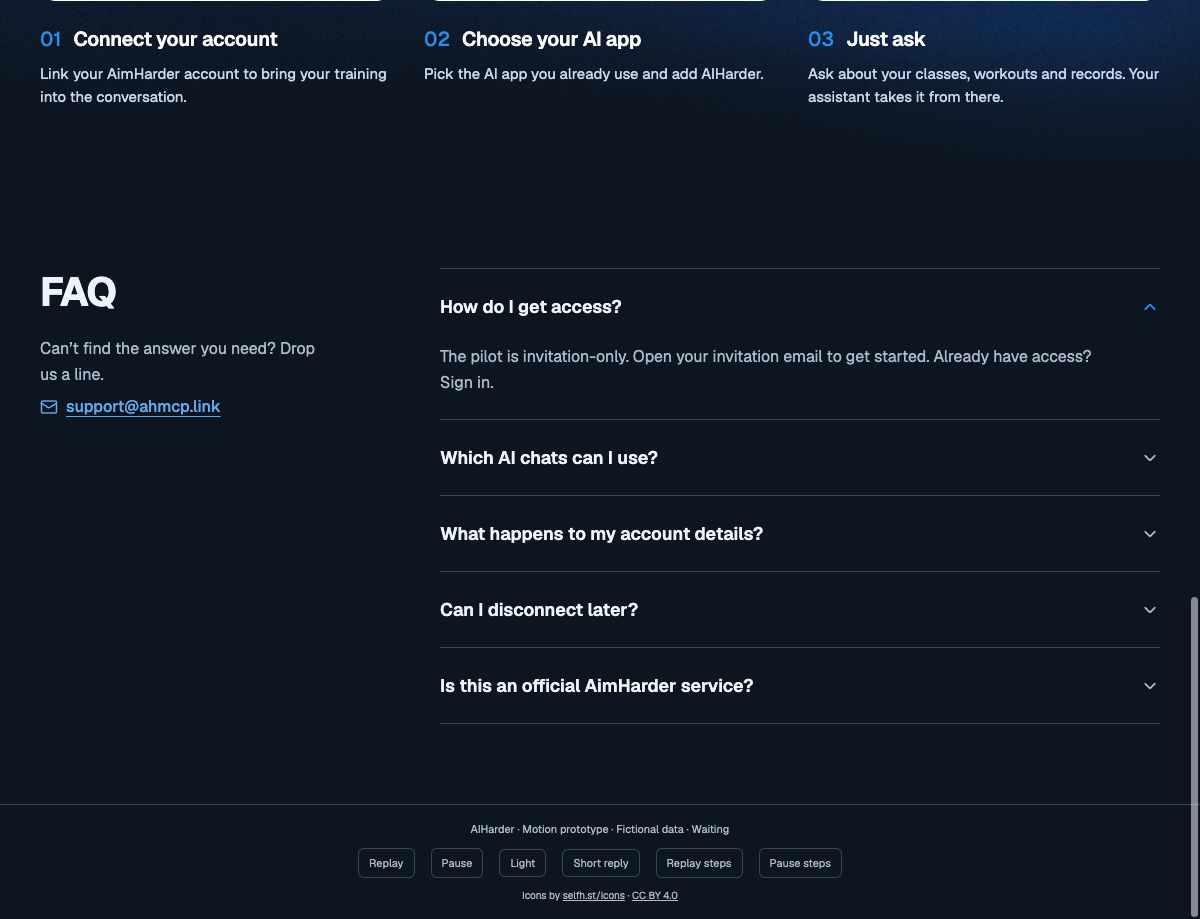
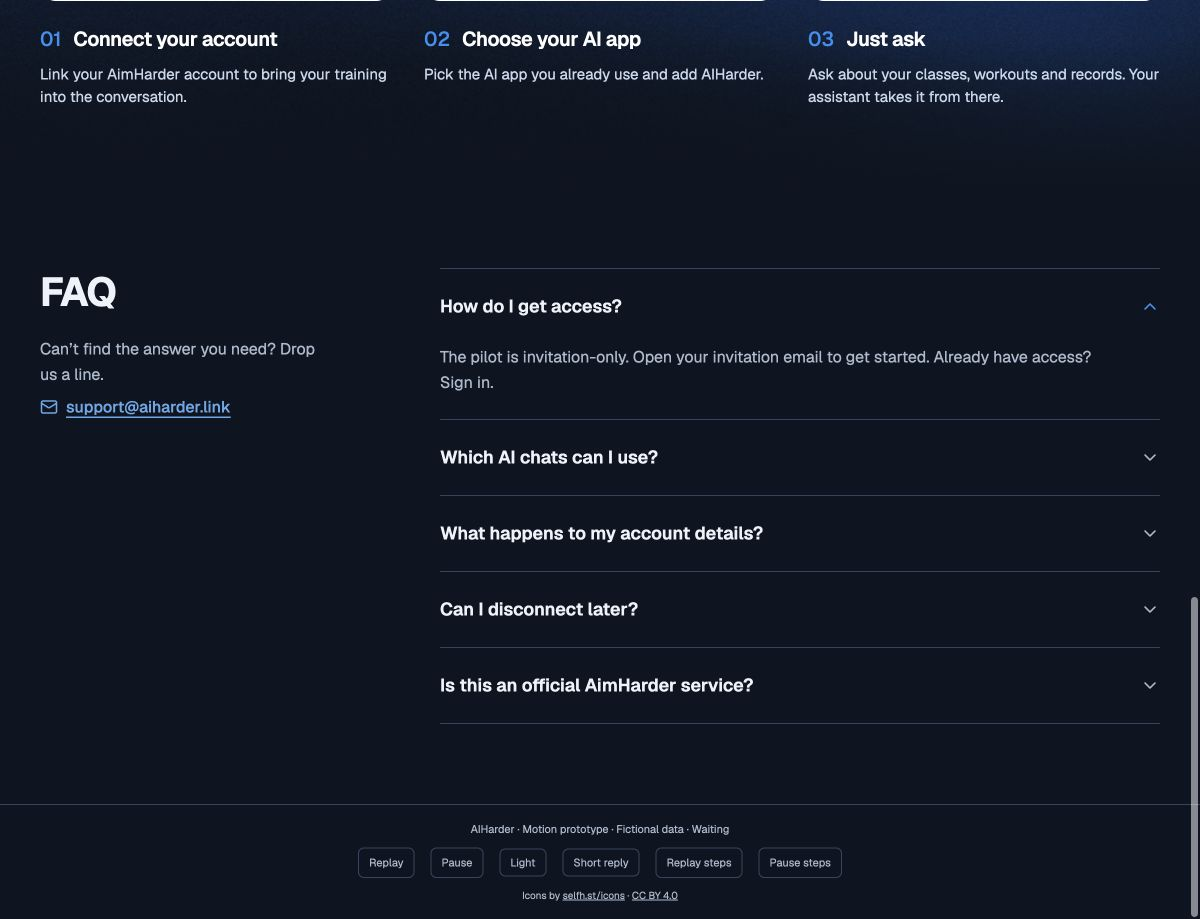
design: adopt aiharder.link domain and support address #95

diff --git a/design/home-study/hero-motion-prototype.html b/design/home-study/hero-motion-prototype.html
@@ -6,4 +6,4 @@
 @media(max-width:1320px){.kettle{left:-60px;top:116px;width:300px;height:344px}.kettle img{width:435.13px;height:435.13px;left:-68px;top:-57.79px}.answer{width:300px}.ground{left:-36px;top:450px;width:266px}.ground::after{left:34px;width:198px}}
 @media(max-width:1150px){.hero{grid-template-columns:46% 1fr;gap:40px}h1{font-size:50px}.brand{font-size:20px}.utilities{gap:16px}.nav{gap:24px}.question{width:270px}.answer{width:300px}.kettle{left:-70px}.apps{gap:12px}.app{font-size:12px;gap:5px}}
 @media(max-width:850px){.container{width:calc(100% - 40px)}.header-inner{grid-template-columns:1fr auto;min-height:80px}.nav{display:none}.utilities{gap:16px}.language{display:none}.hero{display:block;padding-top:28px}.pitch{max-width:532px}.scene{height:520px;margin:32px auto 0;max-width:596px}.kettle{left:0;top:126px}.ground{top:460px}.question{right:0}.answer{right:0}.apps{flex-wrap:wrap}h1{font-size:44px}.header-signin{min-width:100px;padding:12px 18px}.brand{font-size:17px}.brand img{width:35px;height:40px}}
[2 lines of base64/hex data omitted]

diff --git a/design/home-study/faq-prototype.js b/design/home-study/faq-prototype.js
@@ -1,6 +1,6 @@
 // Isolated home-study FAQ. Mailto opens a draft; this page sends no email.
 const section = document.querySelector('#faq');
-const copy = await fetch('./faq-study-copy.json').then(response => response.json());
+const copy = await fetch('./faq-study-copy.json?v=aiharder-domain').then(response => response.json());
 section.innerHTML = `
   <div class="container faq-layout">
     <div class="faq-introduction">

diff --git a/docs/product-experience.md b/docs/product-experience.md
@@ -1,6 +1,8 @@
 # Product experience design
 
-FAQ checkpoint, 2026-11-02: the English desktop home now includes **FAQ**, with a support-email invitation beside the heading and five expandable answers. This owner placement supersedes the earlier support-at-end proposal. The [FAQ study](../design/home-study/faq-study.md) records current copy, interaction, references, native states and acceptance limits. `support@ahmcp.link` remains the accepted design target; this work does not activate or validate the inbox. Closing/footer drafts and other device/locale variants remain unchanged.
+Design-domain update, 2026-11-02: the owner selected **aiharder.link** for the design and **support@aiharder.link** for its support contact. This supersedes the earlier public-domain/address presentation below. English desktop Light/Dark copy and Pen use the new address. Technical origins, OAuth callbacks, DNS, mail-provider configuration and historical activation evidence are unchanged; this is not an operational migration or availability claim.
+
+FAQ checkpoint, 2026-11-02: the English desktop home now includes **FAQ**, with a support-email invitation beside the heading and five expandable answers. This owner placement supersedes the earlier support-at-end proposal. The [FAQ study](../design/home-study/faq-study.md) records current copy, interaction, references, native states and acceptance limits. `support@aiharder.link` is the current design target; this work does not activate or validate the inbox. Closing/footer drafts and other device/locale variants remain unchanged.
 
 Home study checkpoint, 2026-11-02: English desktop Light/Dark now include the animated **How you get started** section after the question wall. The latest refinement reuses the vertically inverted hero background, a navy title in Light, a macOS-style demo cursor and an “Other clients” row after ChatGPT. The [directed study](../design/home-study/how-to-study.md) records the three fictional UI demos, source references, timings, editable Pen success stills and browser checks. Closing/footer drafts and the other six variants remain frozen. Captions and owner motion/visual acceptance remain pending; this does not implement live authentication, app installation or production frontend behavior. Existing architecture/security/scope ADRs are unaffected.
 
@@ -20,7 +22,7 @@ The owner accepted the following recommendations on 2026-10-28:
 
 - Design primarily for a member of the owner's gym who wants to use AimHarder through an AI chat. Keep invitation-only admission for the initial pilot. Explain capabilities, setup and recovery without requiring knowledge of MCP.
 - Cover the whole remote-service experience: the public website, invitations and sign-in, AimHarder connection, AI-client authorization, settings, administration, errors and transactional email. Review instructions visible in the AI chat as well. Changes to tool behavior require a specific decision.
-- Keep `ahmcp.link` as the intended public domain. The owner's earlier mention of `ahmcp.com` was a mistake, not a migration request.
+- Use `aiharder.link` as the current design domain (owner revision, 2026-11-02). This supersedes the earlier `ahmcp.link` design choice; it does not migrate the existing runtime.
 - Make the GitHub README a product entry point with immediately discoverable hosted remote and local npm usage paths, shared capabilities, and separate setup guides. Link technical details and validation evidence from the relevant sections.
 - Keep the website design in a pen.dev `.pen` file. The later design handoff fixes the path as `design/ahmcp.pen`; #95 resolves the concrete screen/state inventory within its required coverage.
 
@@ -74,7 +76,7 @@ These are source and tracker observations, not UX decisions:
 - The portal can list currently authorized MCP clients. It has no implemented first-successful-query indicator; an OAuth grant alone is not evidence that a sporting query succeeded.
 - The Mamitsu reference was inspected on 2026-10-28, including its **Other agents** state. It switches the instructions with the client selection; the generic state supplies a copyable server URL and brief Streamable HTTP/OAuth steps. Its installation commands, skills, client support and authentication are not requirements or compatibility evidence for this project.
 - No existing `.pen` or branding asset was found in this checkout during the initial audit.
-- The [acceptance ledger](hosted-pilot-acceptance.md) identifies the isolated test environment separately from the intended production origin. Choosing `ahmcp.link` for the design does not establish production availability.
+- The [acceptance ledger](hosted-pilot-acceptance.md) identifies the isolated test environment separately from the intended production origin. Choosing `aiharder.link` for the design does not establish production availability.
 
 ## Vocabulary and existing decisions
 

diff --git a/design/home-study/faq-study.md b/design/home-study/faq-study.md
@@ -19,7 +19,7 @@ Keep a plain page surface after the blue How to band. Heading/contact occupy the
 
 Five topics: invitation access, client requirements, encrypted credential custody, independent disconnect controls and independent-project status. Naming is AIHarder; technical identifiers remain unchanged. Client logos and fictional demos do not prove compatibility. Client requirements remain conditional instead of promising every displayed app works. Existing custody wording preserves that the server can recover credentials to authenticate; the AI chat does not receive them.
 
-Support introduction: “Can’t find the answer you need? Drop us a line.” Then `support@ahmcp.link` as a plain `mailto:` link with no prefilled user data, body or diagnostic logs. This is the accepted design target in [product experience](../../docs/product-experience.md); inbox activation and inbound/reply validation remain separate and were not performed. Opening an email draft is not delivery verification. No email is sent by the prototype.
+Support introduction: “Can’t find the answer you need? Drop us a line.” Then `support@aiharder.link` as a plain `mailto:` link with no prefilled user data, body or diagnostic logs. This is the accepted design target in [product experience](../../docs/product-experience.md); inbox activation and inbound/reply validation remain separate and were not performed. Opening an email draft is not delivery verification. No email is sent by the prototype.
 
 ## Pen handoff
 
@@ -34,3 +34,5 @@ Runtime interaction, native export, copy consistency and local-link checks are r
 Two-axis review against `cc63a36...5d5b4b7`: Standards 0 findings; Spec 0 findings. JavaScript syntax, current 75 asset hashes and changed local references passed. Chrome verified mouse, Enter, space, visible focus, all-five-open state and both themes without horizontal overflow or console warnings/errors. No production test suite was run for this isolated visual prototype.
 
 Support-icon refinement (2026-11-02): an 18px Lucide `mail` icon sits 8px before the email, centered vertically and inheriting its theme color. The icon is decorative (`aria-hidden`); the same mailto link wraps icon and address. Native Light/Dark use the matching editable Lucide icon. No behavior, scope or ADR decisions changed.
+
+Design-domain update (2026-11-02): the owner selected `aiharder.link` for the design, with `support@aiharder.link` as the current support target. It supersedes the earlier design-domain/address choice. Earlier browser-check records retain their observed old address; the domain-refinement readback is current. This is a presentation update, not domain registration, DNS/hosting migration or mailbox activation.

diff --git a/design/home-study/README.md b/design/home-study/README.md
@@ -1,6 +1,6 @@
 # AIHarder — public home study
 
-**Current section — 2026-11-02:** Added **FAQ** after How to in the English desktop Light/Dark studies, with a support invitation and `support@ahmcp.link` link beside five independent disclosures. The first answer starts open. [Study, sources and limits](faq-study.md) · [Browser/native checks](faq-checks.json) · [Light](https://mini.taild6f227.ts.net:8443/aimharder-home-95/home-study/hero-motion-prototype.html?theme=light&reply=long&v=faq1#faq) · [Dark](https://mini.taild6f227.ts.net:8443/aimharder-home-95/home-study/hero-motion-prototype.html?theme=dark&reply=long&v=faq1#faq). Editable Pen stills: [Light](previews/faq/RqxLb.png) / [Dark](previews/faq/lkUyn.png). Closing/footer remain disabled drafts; the six other variants remain frozen. The accepted support address is a design target; inbox activation/delivery validation remains separate. Earlier section checkpoints below describe their delivery-time scope.
+**Current section — 2026-11-02:** Added **FAQ** after How to in the English desktop Light/Dark studies, with a support invitation and `support@aiharder.link` link beside five independent disclosures. The first answer starts open. [Study, sources and limits](faq-study.md) · [Browser/native checks](faq-checks.json) · [Light](https://mini.taild6f227.ts.net:8443/aimharder-home-95/home-study/hero-motion-prototype.html?theme=light&reply=long&v=faq1#faq) · [Dark](https://mini.taild6f227.ts.net:8443/aimharder-home-95/home-study/hero-motion-prototype.html?theme=dark&reply=long&v=faq1#faq). Editable Pen stills: [Light](previews/faq/RqxLb.png) / [Dark](previews/faq/lkUyn.png). Closing/footer remain disabled drafts; the six other variants remain frozen. The accepted support address is a design target; inbox activation/delivery validation remains separate. Earlier section checkpoints below describe their delivery-time scope.
 
 **How to checkpoint — 2026-11-02:** Added **How you get started** after the question wall in the English desktop Light/Dark studies. It uses the hero Grainient field inverted vertically (blue to pale blue in Light), a navy Light heading and three looping interface demonstrations: account connection, app installation, and questions answered by ChatGPT/Claude/Hermes. Captions remain provisional. The Pen foreground is editable at a success still; HTML owns animation. FAQ/closing/footer remain disabled drafts and the other six variants remain frozen. [Study and verification](how-to-study.md) · [Checks](how-to-checks.json). This extends the three-section replica checkpoint below; its checks remain historical evidence for the earlier sections.
 

diff --git a/docs/adr/2026-10-18-resend-transactional-delivery.md b/docs/adr/2026-10-18-resend-transactional-delivery.md
@@ -29,3 +29,5 @@ Support-channel product amendment, 2026-10-28: the owner accepted Resend Inboxes
 The sender can be configured without enabling Cloudflare Paid or changing maintained authentication. The provider receives recipient addresses and capability-bearing message content; tracking, token scope, retention and deletion remain material security/acceptance concerns. The real invitation, verification and recovery mailbox/authentication requirement for #71 is complete as recorded above. Workers Free's CPU suitability for default scrypt, measured full-pilot cost, Google, client onboarding and later isolation/lifecycle gates remain unresolved. No local stdio or upstream AimHarder contract changes.
 
 Sources: [Resend send-email API](https://resend.com/docs/api-reference/emails/send-email), [API keys](https://resend.com/docs/dashboard/api-keys/introduction), [idempotency](https://resend.com/docs/dashboard/emails/idempotency-keys), and [pricing](https://resend.com/pricing), checked 2026-10-18.
+
+Design-only domain amendment, 2026-11-02: the owner now uses `aiharder.link` and `support@aiharder.link` in the visual design. This supersedes the earlier support-address presentation, while preserving the existing Resend adapter, verified sending-domain/DNS evidence and pending inbox activation boundary. It does not authorize or perform a technical domain migration, mail configuration change or delivery test. See the [current product-design record](../product-experience.md).
